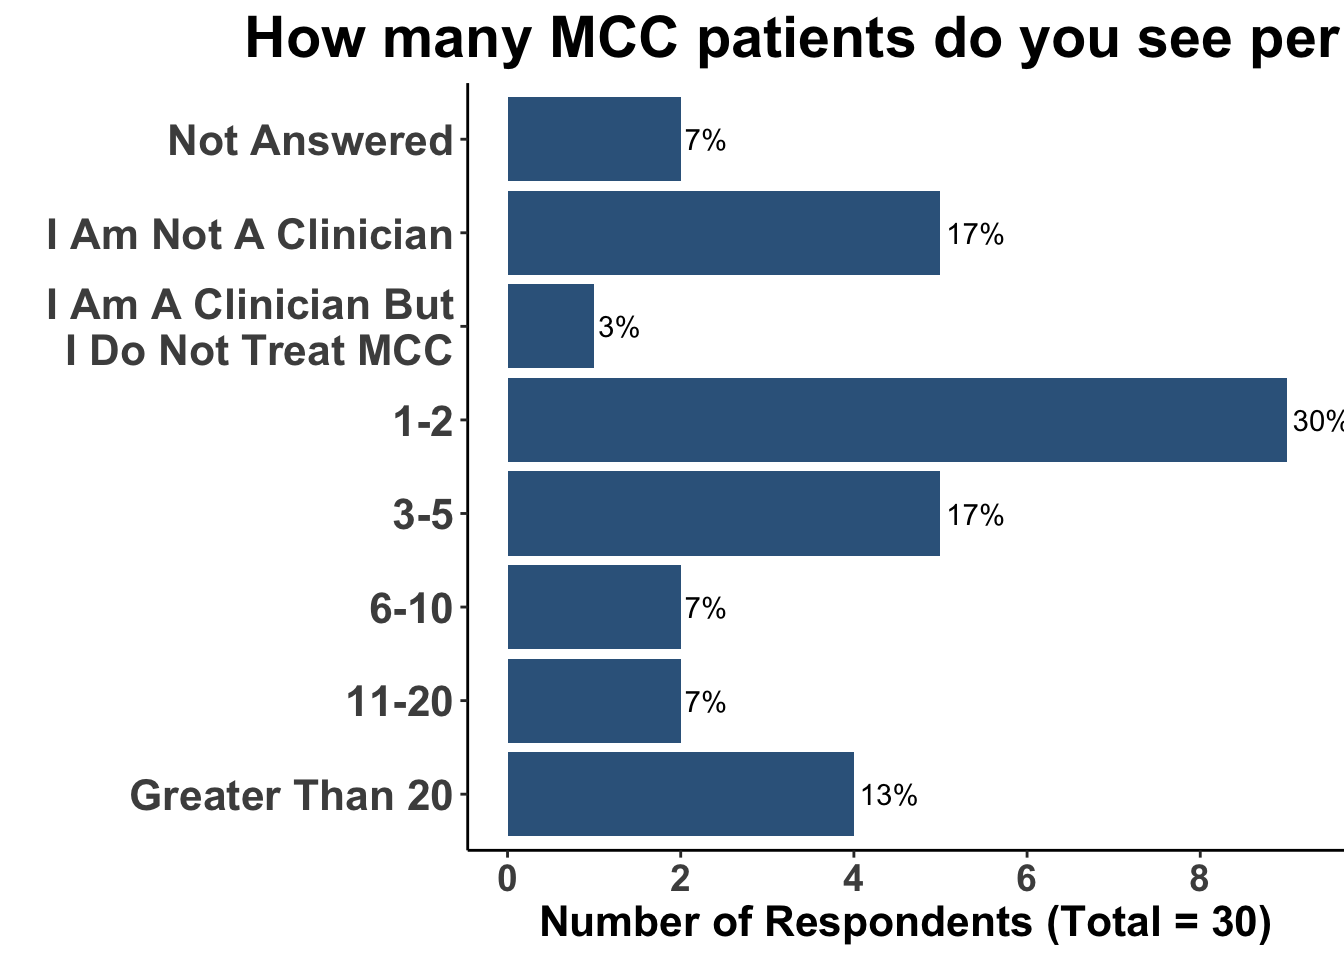
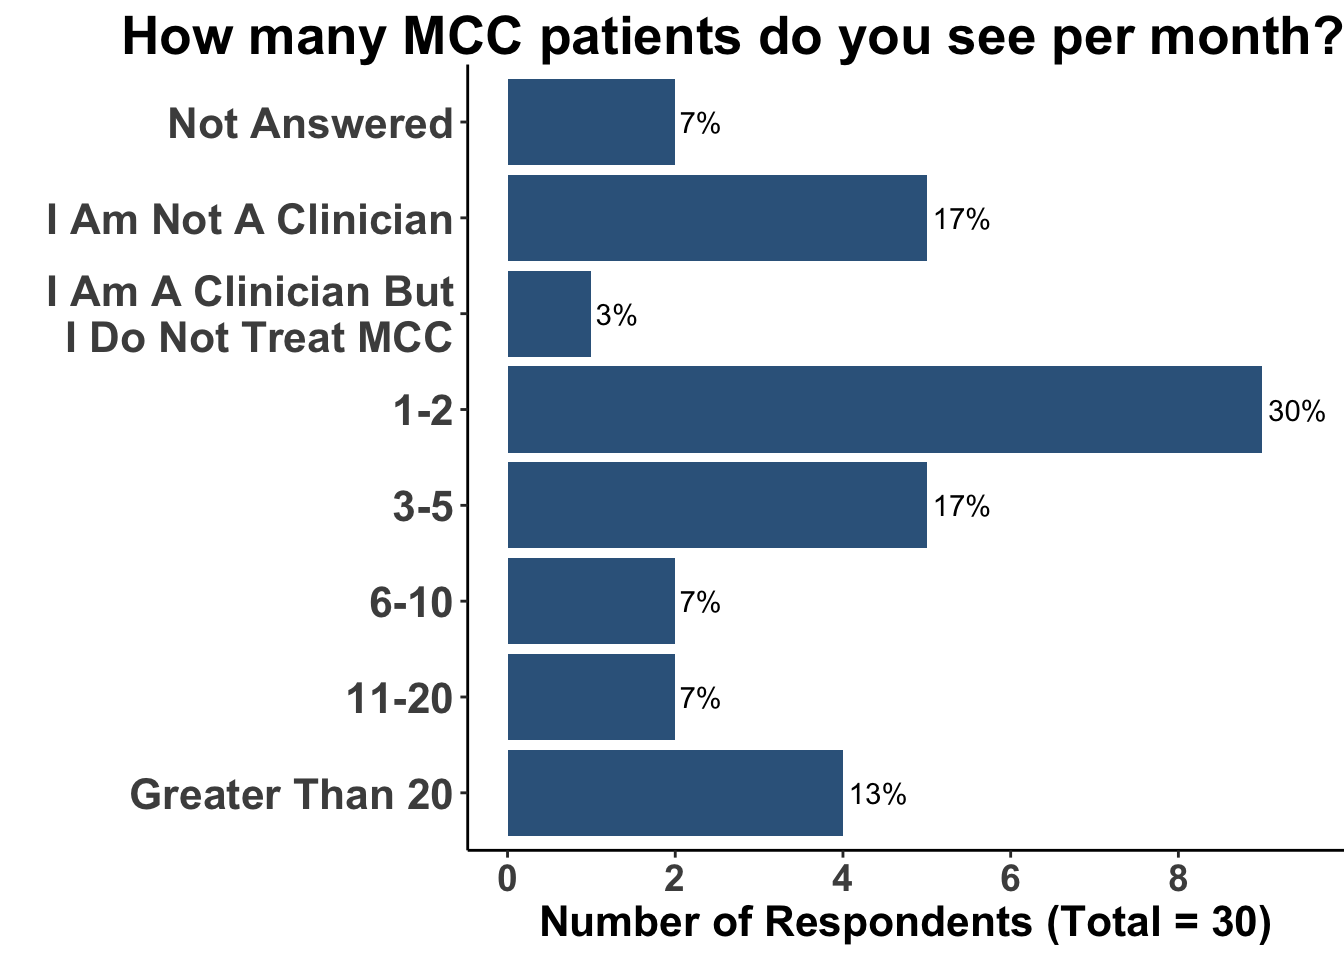
updated survey scripts

diff --git a/docs/pre_jc_survey/experience/index.html b/docs/pre_jc_survey/experience/index.html
@@ -38,7 +38,7 @@ ul.task-list li input[type="checkbox"] {
 <link href="../../site_libs/quarto-html/quarto-syntax-highlighting-549806ee2085284f45b00abea8c6df48.css" rel="stylesheet" id="quarto-text-highlighting-styles">
 <script src="../../site_libs/bootstrap/bootstrap.min.js"></script>
 <link href="../../site_libs/bootstrap/bootstrap-icons.css" rel="stylesheet">
-<link href="../../site_libs/bootstrap/bootstrap-5d9244b8c8e9eadc7b06b8c2444643a3.min.css" rel="stylesheet" append-hash="true" id="quarto-bootstrap" data-mode="light">
+<link href="../../site_libs/bootstrap/bootstrap-79108a0fc1995748cbd19a5b0e3e3e7c.min.css" rel="stylesheet" append-hash="true" id="quarto-bootstrap" data-mode="light">
 <script id="quarto-search-options" type="application/json">{
   "location": "navbar",
   "copy-button": false,
@@ -72,7 +72,18 @@ ul.task-list li input[type="checkbox"] {
   }
   h1.title {
     text-align: center;
-    padding-top: 120px; /* Add space for the draft banner */
+    padding-top: 120px;
+  }
+
+  /* Make plot outputs fill more width */
+  .cell-output-display {
+    max-width: 100% !important;
+  }
+
+  /* Optionally remove left/right padding */
+  main.content {
+    padding-left: 2rem;
+    padding-right: 2rem;
   }
 </style>
 
@@ -115,14 +126,14 @@ ul.task-list li input[type="checkbox"] {
     </nav>
 </header>
 <!-- content -->
-<div id="quarto-content" class="quarto-container page-columns page-rows-contents page-layout-article page-navbar">
+<div id="quarto-content" class="quarto-container page-columns page-rows-contents page-layout-full page-navbar">
 <!-- sidebar -->
 <!-- margin-sidebar -->
     <div id="quarto-margin-sidebar" class="sidebar margin-sidebar zindex-bottom">
         
     </div>
 <!-- main -->
-<main class="content" id="quarto-document-content">
+<main class="content column-page" id="quarto-document-content">
 
 <header id="title-block-header" class="quarto-title-block default">
 <div class="quarto-title">
@@ -131,7 +142,7 @@ ul.task-list li input[type="checkbox"] {
 
 
 
-<div class="quarto-title-meta">
+<div class="quarto-title-meta column-page">
 
     
   

diff --git a/docs/SoCO_Survey.html b/docs/SoCO_Survey.html
@@ -340,7 +340,7 @@ No matching items
 <div class="fade-in">
 <div id="listing-experience" class="quarto-listing quarto-listing-container-default">
 <div class="list quarto-listing-default">
-<div class="quarto-post image-right" data-index="0" data-listing-file-modified-sort="1743845428303" data-listing-reading-time-sort="1" data-listing-word-count-sort="94">
+<div class="quarto-post image-right" data-index="0" data-listing-file-modified-sort="1743846248227" data-listing-reading-time-sort="1" data-listing-word-count-sort="94">
 <div class="thumbnail">
 <p><a href="./pre_jc_survey/experience/index.html" class="no-external"></a></p><a href="./pre_jc_survey/experience/index.html" class="no-external">
 <p class="card-img-top"><img src="pre_jc_survey/experience/index_files/figure-html/patient experience-1.png"  class="thumbnail-image card-img"/></p>
